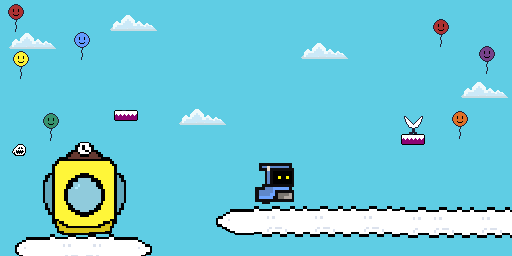
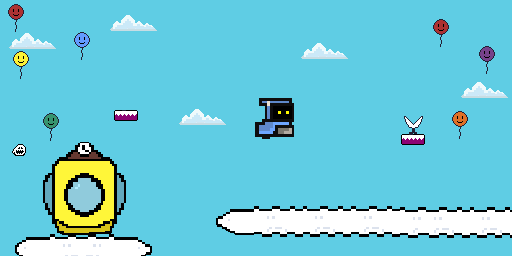
added promo pic for mobile

Changed region(s): [[0.5, 0.625, 0.5938, 0.8125], [0.5, 0.375, 0.5938, 0.5625]]

diff --git a/index.html b/index.html
@@ -77,7 +77,7 @@
         .hero-promo {
             width: 100%;
             min-height: 600px; 
-            background-image: url('images/promo3.png'); 
+            background-image: url('images/promo4.png'); 
             background-size: cover;
             background-position: bottom center;
             position: relative; 
@@ -89,7 +89,11 @@
             padding: 60px 20px;
             box-sizing: border-box;
         }
-
+        @media (max-width: 768px) {
+            .hero-promo {
+                background-image: url('images/promo3.png'); /* Overrides to just center on mobile devices */
+            }
+        }
         .hero-promo::before {
             content: '';
             position: absolute;
@@ -139,7 +143,7 @@
             z-index: 3;
             margin-top: 10px;
         }
-
+        
         .hero-buttons a {
             display: inline-block;
             padding: 14px 28px;
